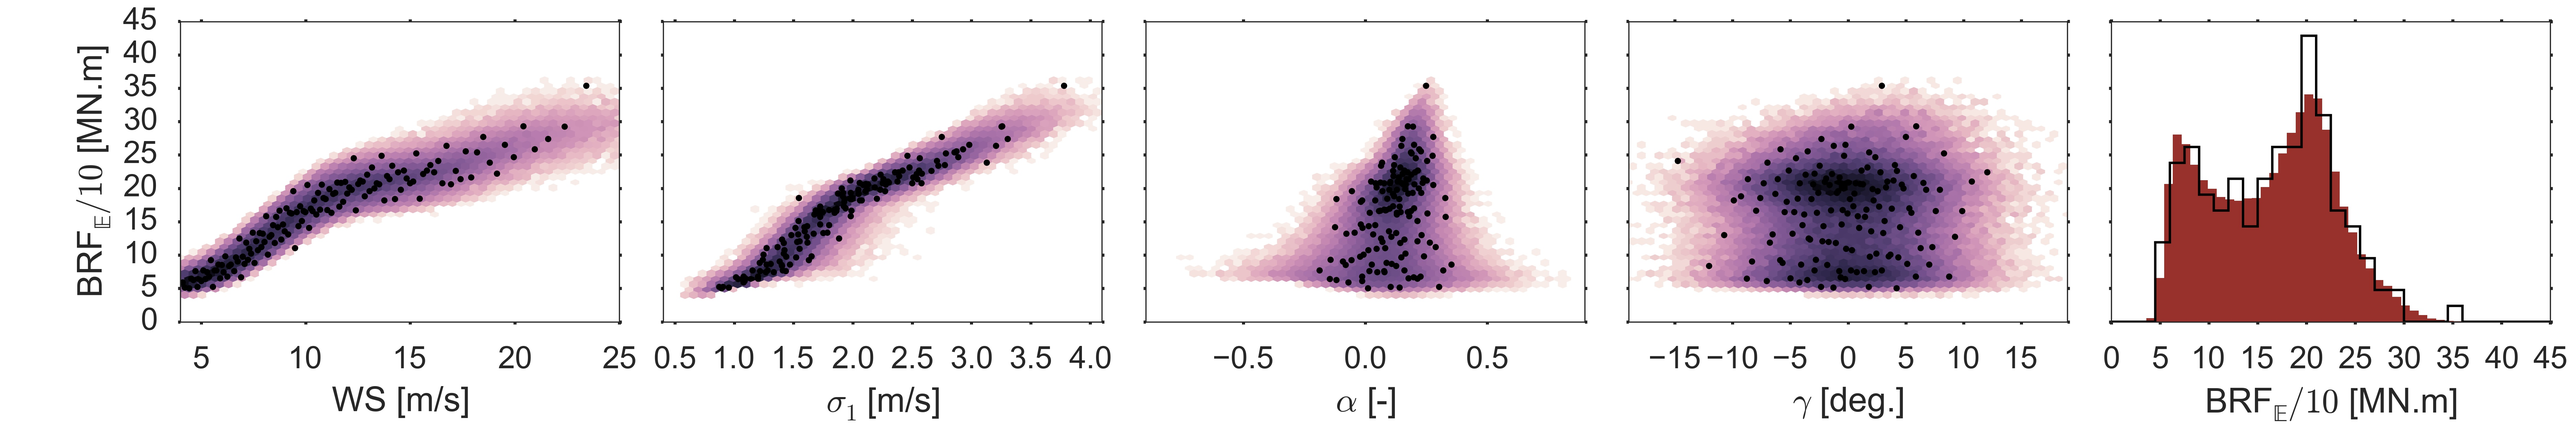
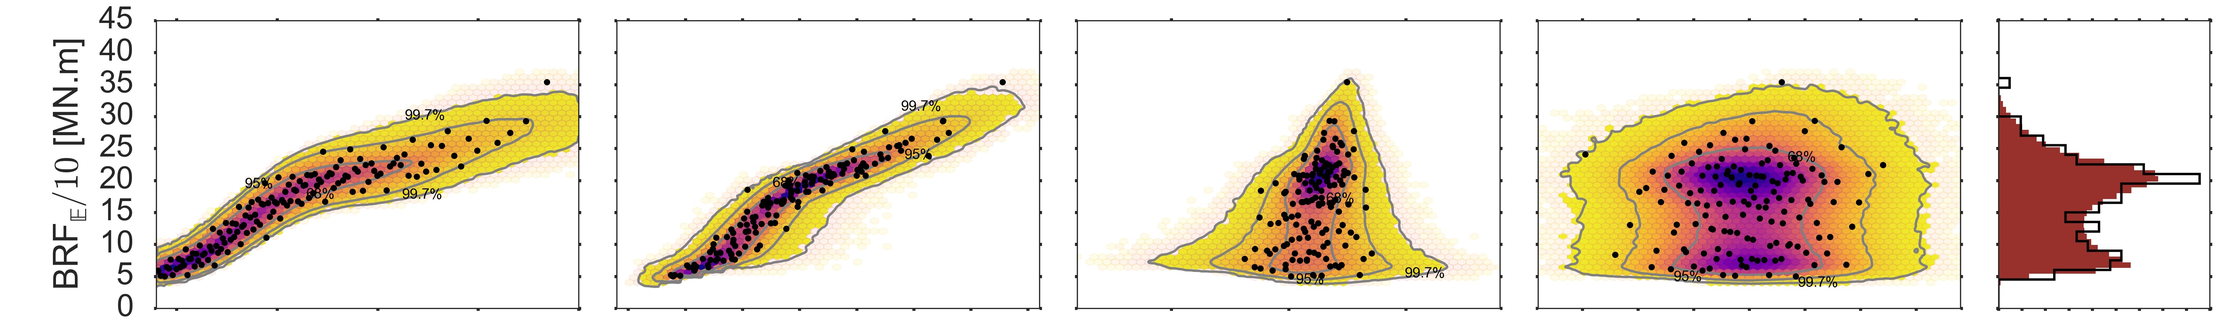
Updates from ShareLaTeX

diff --git a/PCE-WT-Paper-2016.tex b/PCE-WT-Paper-2016.tex
@@ -490,8 +490,8 @@ Seven different model outputs are considered ($\vy$), see table \ref{tab_outs}. 
 
 \subsection{Training points}
 
-In this study, the number of model evaluations are set to be $N=2\,N_c$, and the maximum order of the polynomial is expected to be $M=4$. This leads to a number of model evaluations of 140 for a 4-dimensional case, see equation \ref{eq_mod_eval}. %% A small comment: I tested some other low-discrepancy series available in Matlab (Sobol, Halton), and to me the Halton sequence actually looks interesting - it may have an advantage over the Hammersley because in higher dimensions the Hammersley points tend to start looking grouped - but this doesn't seem to be the case with Halton sequence points. 
-A Hammersley sequence \cite{hammersley1960monte} is preferred over other variance reduction methods to generate the training sample in the uniform space as it is a sequence that can be extended to contain larger sample size without changing the previous points \cite{feinberg2015chaospy,hosder2007efficient}. The uniform sample is then transformed into the physical variables using the Rossenblat transformation. A similar approach is used to generate the input sample for a Monte-Carlo simulation; the only difference is the size of the sample which in this study is taken to be 80000. The training input sample is shown in figure \ref{fig_PCE_train_x_full} as well as a the inputs sample for the Monte-Carlo simulation. It can be observed that the training points are more densely distributed in the regions of higher probability of the inputs. This means that the surrogate is better trained in the most likely regions of the input space.  100 different turbulent inflow realizations are generated using the Mann model for each input point, for which the mean and standard deviation of the outputs are obtained. This number is selected to allow for testing in the accuracy of the prediction of the surrogates when they are trained using a reduced number of TIR. This makes the full training sample size of $140 \times 100$ HAWC2 10 minutes simulations.
+In this study, the number of model evaluations are set to be $N=2\,N_c$, the maximum order of the polynomial is expected to be $M=4$ and the number of input variables is $D=4$. This leads to a total number of model evaluations of 140, see equation \ref{eq_mod_eval}. %% A small comment: I tested some other low-discrepancy series available in Matlab (Sobol, Halton), and to me the Halton sequence actually looks interesting - it may have an advantage over the Hammersley because in higher dimensions the Hammersley points tend to start looking grouped - but this doesn't seem to be the case with Halton sequence points. 
+A Hammersley sequence \cite{hammersley1960monte} is preferred over other variance reduction methods to generate the training sample in the uniform space as it is a sequence that can be extended to contain larger sample size without changing the previous points \cite{feinberg2015chaospy,hosder2007efficient}. The uniform sample is then transformed into the physical variables using the Rossenblat transformation. A similar approach is used to generate the input sample for a Monte-Carlo simulation; the only difference is the size of the sample which in this study is taken to be 80000. The training input sample is shown in Figure \ref{fig_PCE_train_x_full} as well as a the inputs sample for the Monte-Carlo simulation. Figure \ref{fig_PCE_train_x_full} is a representation of the multidimensional $\pdf(\vx)$: the histograms represent the marginal distributions for each variable, while the plots in the lower diagonal represent the training points and for the Monte-Carlo simulation it shows the bi-dimensional histograms that show the correlations between each pairs of variables as well as the iso-pdf quantiles that enclose 68\%, 95\% and 99.7\% of the data. It can be observed that the training points are more densely distributed in the regions of higher probability of the inputs. This means that the surrogate is better trained in the most likely regions of the input space.  100 different turbulent inflow realizations are generated using the Mann model for each input point, for which the mean and standard deviation of the outputs are obtained. This number is selected to test the accuracy of the prediction of the surrogates when they are trained using a reduced number of TIR as it is defined in the design load cases defined in the standard \cite{international2005iec}. The full training sample consists of $140 \times 100$ HAWC2 10 minutes simulations.
 
 \begin{figure*}[h!]
 \begin{centering}
@@ -503,37 +503,27 @@ A Hammersley sequence \cite{hammersley1960monte} is preferred over other varianc
 
 \subsection{Example of PCE surrogates for individual statistical moments}
 
-Some examples of the surrogates for $\vy_{\expect}$ and $\vy_{\std}$ \footnote{$P_{\std}$ represents the standard deviation of 100 different realizations of the 10-min averaged power; this variable should not be confused with the standard deviation of the instantaneous power during the 10 minutes of simulation.} are shown in figures \ref{fig_y_hat_E_V} and \ref{fig_y_hat_E_V2}. In general, the surrogates accurately capture the global behavior of the model with respect to the 4 input variables. The surrogates of the local standard deviations present larger errors, although the errors are small in comparison to the overall magnitude of the output. These local errors cause an inability to fully capture the overall distribution of the local standard deviations, see the plots in the fifth column in figures \ref{fig_y_hat_E_V} and \ref{fig_y_hat_E_V2}. The distribution of the errors of the surrogate and its impact in the final prediction are quantified in section \ref{subsec_Convergence}. These errors can be reduced up to a tolerance level selected by the user by adding more training points (input points with their turbulent inflow realizations).
+Some examples of the distribution of  $\vy_{\expect}$ and $\vy_{\std}$ \footnote{$P_{\std}$ represents the standard deviation of 100 different realizations of the 10-min averaged power; this variable should not be confused with the standard deviation of the instantaneous power during the 10 minutes of simulation.} are shown in Figures \ref{fig_y_hat_E_V}. In this figure the black points represent the observed statistic of the output for the training points; while the bi-dimensional histogram represents the obtained distribution of the surrogate for a 80000 Monte-Carlo sample. The observed histogram in the training dataset and the PDF predicted by the surrogate for $\vy_{\expect}$ and $\vy_{\std}$ are shown in the last column in Figure \ref{fig_y_hat_E_V}. It can be observed that the surrogates accurately capture the global PDF of the model and its dependency with respect to the 4 input variables. The surrogates of the local standard deviations, $\hat{y}_{\std}$, are not able to capture the behavior of some extreme cases, see the extreme points at low wind speeds in the plots for CT$_{\std}$ and BRF$_{\std}$. These errors are small in comparison to the overall magnitude of the output; the distribution of the errors of the surrogates and its impact in the final prediction are quantified in section \ref{subsec_Convergence}. These errors can be reduced up to a tolerance level selected by the user by adding more training points (input points with their turbulent inflow realizations). The surrogates are robust enough to predict the frequency of occurrence of extreme values such as the outputs resulting from the input point with largest $\stdws$, see first and third row in figure \ref{fig_y_hat_E_V}. This point seems to be outside the main trend in $\ws$ in figure \ref{fig_y_hat_E_V} because it has a large $\stdws$ and $\shear$ given its $\ws$, see figure \ref{fig_PCE_train_x_full}.
 
 \begin{figure*}[h!]
 \begin{centering}
 \includegraphics[width=\linewidth]{Figures/Surrgotes_20-fold/P_E_MC_PCE_last_row.jpg} \\
 \includegraphics[width=\linewidth]{Figures/Surrgotes_20-fold/P_S_MC_PCE_last_row.jpg} \\
 \includegraphics[width=\linewidth]{Figures/Surrgotes_20-fold/CT_E_MC_PCE_last_row.jpg} \\
-\includegraphics[width=\linewidth]{Figures/Surrgotes_20-fold/CT_S_MC_PCE_last_row.jpg}
-\caption{Example surrogates for individual local statistical moments. (Black points) 140 training dataset. (Histogram colored hex-bins, lighter pink bins have lower probability) 80000 Monte-Carlo simulation on the surrogate.}
+\includegraphics[width=\linewidth]{Figures/Surrgotes_20-fold/CT_S_MC_PCE_last_row.jpg}\\
+\includegraphics[width=\linewidth]{Figures/Surrgotes_20-fold/BRFBM_EFL_M12_E_MC_PCE_last_row.jpg} \\
+\includegraphics[width=\linewidth]{Figures/Surrgotes_20-fold/BRFBM_EFL_M12_S_MC_PCE_last_row.jpg}
+%\includegraphics[width=\linewidth]{Figures/Surrgotes_20-fold/TBFBM_EFL_M4_E_MC_PCE_last_row.jpg} \\
+%\includegraphics[width=\linewidth]{Figures/Surrgotes_20-fold/TBFBM_EFL_M4_S_MC_PCE_last_row.jpg}
+\caption{Example of surrogates for individual mean output and std. of the output with respect TIR. (Black points) 140 training points. (Histogram colored hex-bins) 80000 Monte-Carlo simulation on the surrogate. (Contour lines) Iso-PDF lines that encircle 68\%, 95\% and 99.7\% of the Monte-Carlo simulation on the surrogate.}
 \label{fig_y_hat_E_V}
 \end{centering}
 \end{figure*}
 
-The surrogates are robust enough to predict the frequency of occurrence of extreme values such as the outputs resulting from the input point with largest $\stdws$, see first and third row in figure \ref{fig_y_hat_E_V2}. This point seems to be outside the main trend in $\ws$ in figure \ref{fig_y_hat_E_V2} because it has a large $\stdws$ and $\shear$ given its $\ws$, see figure \ref{fig_PCE_train_x_full}.
-
-\begin{figure*}[h!]
-\begin{centering}
-\includegraphics[width=\linewidth]{Figures/Surrgotes_20-fold/BRFBM_EFL_M12_E_MC_PCE_last_row.jpg} \\
-\includegraphics[width=\linewidth]{Figures/Surrgotes_20-fold/BRFBM_EFL_M12_S_MC_PCE_last_row.jpg} \\
-\includegraphics[width=\linewidth]{Figures/Surrgotes_20-fold/TBFBM_EFL_M4_E_MC_PCE_last_row.jpg} \\
-\includegraphics[width=\linewidth]{Figures/Surrgotes_20-fold/TBFBM_EFL_M4_S_MC_PCE_last_row.jpg}
-\caption{Example surrogates for individual local statistical moments. (Black points) 140 training dataset. (Histogram colored hex-bins, lighter pink bins have lower probability) 80000 Monte-Carlo simulation on the surrogate.}
-\label{fig_y_hat_E_V2}
-\end{centering}
-\end{figure*}
-
-
 \subsection{Final surrogate predictions}
 %%%
 
-The final surrogates of the DTU 10 MW RWT obtained are presented in figure \ref{fig_final_surrogates}. The amount of local output variation due to the turbulent inflow realization varies between outputs and depends on the region of the input space. In the figure \ref{fig_final_surrogates}, each see-through black cross represents an individual realization of the turbulence. The effect of the turbulent inflow realization is more important for the fatigue loads. The final surrogate covers the space of model outputs and predicts the general details of the overall distributions of the outputs, see column 5 in figure \ref{fig_final_surrogates}.
+The surrogates of $\vy_{\expect}$ and $\vy_{\std}$ are combined to estimate the distribution of each individual output of the DTU 10 MW RWT. The prediction is done by sampling the normal distribution constructed using the surrogates of $\vy_{\expect}$ and $\vy_{\std}$, see equation \ref{eq_output_distrib}. These results are presented in Figure \ref{fig_final_surrogates} along with the full dataset of HAWC2 simulations. In this figure each cross represents an individual 10-min simulation, therefore the scatter of nearby simulations illustrates the stochasticity in the output of the aeroelastic simulation. The amount of local output variability is due to the turbulent inflow realization, varies between outputs and depends on the region of the input space. The effect of the turbulent inflow realization is more important for the fatigue loads than for power and thrust coefficient. Figure \ref{fig_final_surrogates} also presents the bi-dimensional histogram obtained with a 80000 Monte-Carlo simulation of the surrogate. The distribution predicted by the surrogate captures the dependency and variability of each of model output with respect the four input variables. Additionally the surrogate enables the user to obtained a good approximation of the PDF for each variable, see fifth column in Figure \ref{fig_final_surrogates}. The obtained distribution of power shows a similar behaviour to the operational data of wind turbines; this shows that one of the main drivers for variability in the prediction of power is the TIR. Similarly, the thrust coefficient shows large variability for wind speeds below rated; this large variability can become important for wake models that use the thrust coefficient to predict the strength of the wake of a turbine and its impact on other turbines in a wind farm. The 
 
 \begin{figure}[p]
 \begin{centering}
@@ -544,7 +534,7 @@ The final surrogates of the DTU 10 MW RWT obtained are presented in figure \ref{
 \includegraphics[width=\linewidth]{Figures/Full_surrogate_red_file/TBSBM_EFL_M4_PCE_MC_surrogate_last_row.jpg} \\
 \includegraphics[width=\linewidth]{Figures/Full_surrogate_red_file/TTTBM_EFL_M4_PCE_MC_surrogate_last_row.jpg} \\
 \includegraphics[width=\linewidth]{Figures/Full_surrogate_red_file/TTYBM_EFL_M4_PCE_MC_surrogate_last_row.jpg}
-\caption{(Black points) Training dataset in the outputs: 140 Hammersley sequence sample x 100 turbulent inflow realizations. (Histogram colored hex-bins, lighter pink bins have lower probability) 80000 Monte-Carlo simulation of the surrogate.}
+\caption{(Black points) Training dataset in the outputs: 140 Hammersley sequence sample x 100 turbulent inflow realizations. (Histogram colored hex-bins) 80000 Monte-Carlo simulation of the surrogate.}
 \label{fig_final_surrogates}
 \end{centering}
 \end{figure}
